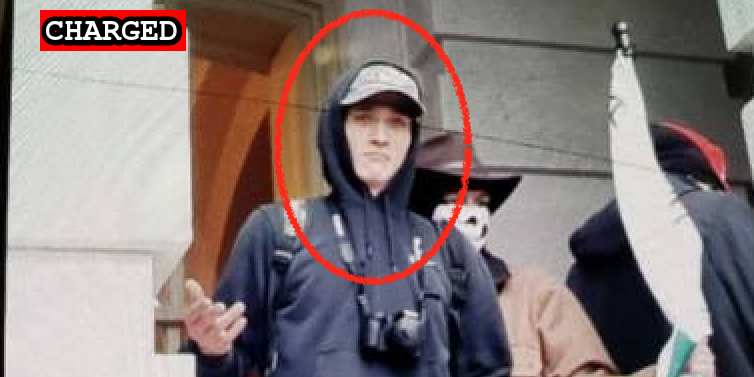
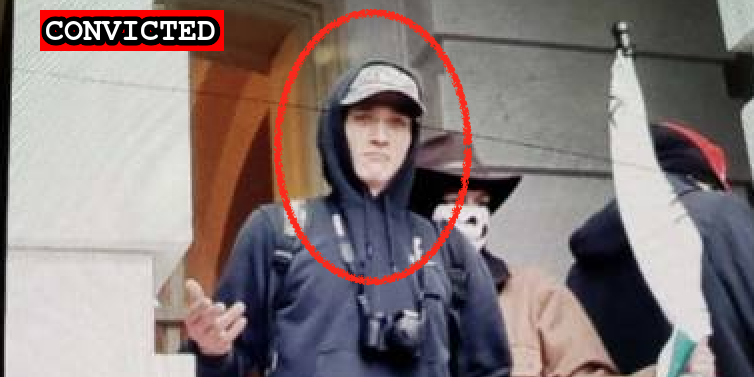
More convictions

Changed region(s): [[0.061, 0.0292, 0.305, 0.1459]]

diff --git a/docs/_suspects/troy-williams.md b/docs/_suspects/troy-williams.md
@@ -4,16 +4,16 @@ lastName: Williams
 hashtag: TroyWilliams
 aka:
 residence: Kentucky
-status: Charged
+status: Convicted
 date: 2021-02-01
 charged: 2021-02-01
 indicted:
-convicted:
+convicted: 2021-10-14
 sentenced:
 dismissed:
 deceased:
-plea_hearing:
-sentencing:
+plea_hearing: 2021-10-14
+sentencing: 2022-01-13
 age: 25
 occupation:
 affiliations:
@@ -25,7 +25,7 @@ courtroom:
 courthouse:
 raid:
 perpwalk:
-quote: 'We were a part of something, there’s cops here, they tried to stop us, they are not letting us in, but not fighting us'
+quote: "We were a part of something, there’s cops here, they tried to stop us, they are not letting us in, but not fighting us"
 title: Troy Williams charged on February 1st, 2021
 description: Click for latest case details. Suspects innocent until proven guilty.
 author: seditiontrack
@@ -34,8 +34,13 @@ published: true
 caseNumber:
 videos:
 charges:
+  - code: 18 USC § 5104(e)(2)(G)
+    title: Parading, demonstrating or picketing in a Capitol building
+    url: https://www.law.cornell.edu/uscode/text/40/5104
+    felony: false
 sentence:
 ---
+
 - [News Report](https://www.wbko.com/2021/02/02/2-kentucky-men-charged-with-entering-capitol-during-riot/)
 - [Complaint](https://extremism.gwu.edu/sites/g/files/zaxdzs2191/f/Dalton%20Crase%20and%20Troy%20Williams%20Affidavit%20in%20Support%20of%20Criminal%20Complaint.pdf)
 - [Statement of Facts](https://extremism.gwu.edu/sites/g/files/zaxdzs2191/f/Dalton%20Crase%20and%20Troy%20Williams%20Affidavit%20in%20Support%20of%20Criminal%20Complaint.pdf)

diff --git a/docs/_suspects/dalton-crase.md b/docs/_suspects/dalton-crase.md
@@ -4,16 +4,16 @@ lastName: Crase
 hashtag: DaltonCrase
 aka:
 residence: Kentucky
-status: Charged
+status: Convicted
 date: 2021-02-01
 charged: 2021-02-01
 indicted:
-convicted: 
-sentenced: 
-dismissed: 
+convicted: 2021-10-14
+sentenced:
+dismissed:
 deceased:
-plea_hearing:
-sentencing:
+plea_hearing: 2021-10-14
+sentencing: 2022-01-13
 age: 21
 occupation:
 affiliations:
@@ -34,8 +34,13 @@ published: true
 caseNumber: 1:21-cr-82
 videos:
 charges:
+  - code: 18 USC § 5104(e)(2)(G)
+    title: Parading, demonstrating or picketing in a Capitol building
+    url: https://www.law.cornell.edu/uscode/text/40/5104
+    felony: false
 sentence:
 ---
+
 - [News Report](https://www.kentucky.com/news/local/crime/article248923359.html)
 - [Complaint](https://extremism.gwu.edu/sites/g/files/zaxdzs2191/f/Dalton%20Crase%20and%20Troy%20Williams%20Affidavit%20in%20Support%20of%20Criminal%20Complaint.pdf)
 - [Statement of Facts](https://www.justice.gov/usao-dc/case-multi-defendant/file/1371326/download)
